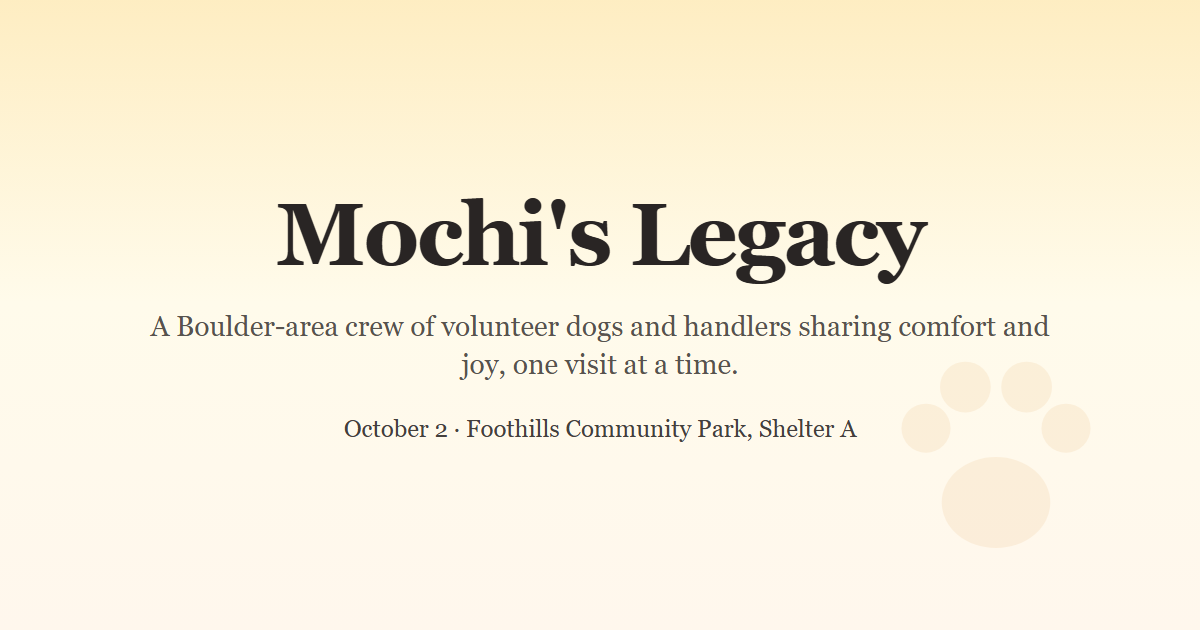
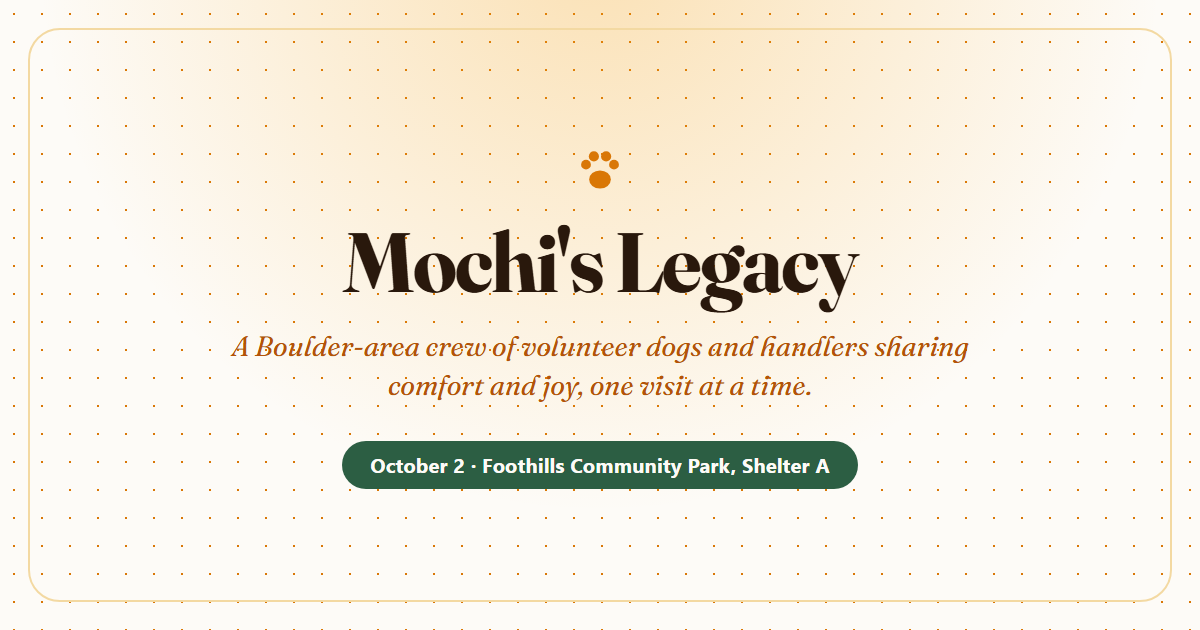
wip(og, p5): social card restyled to Direction A

diff --git a/scripts/og.html b/scripts/og.html
@@ -3,15 +3,18 @@
   Social card source. Playwright renders this to public/og.png at 1200×630.
 
   Generate:
-    npx playwright test e2e/og.spec.ts
-
-  p3: add this npm script (package.json is yours), then set og:image to /og.png:
-    "og": "playwright test e2e/og.spec.ts"
+    npm run og
 -->
 <html lang="en">
   <head>
     <meta charset="utf-8" />
     <title>Mochi's Legacy — og card</title>
+    <link rel="preconnect" href="https://fonts.googleapis.com" />
+    <link rel="preconnect" href="https://fonts.gstatic.com" crossorigin />
+    <link
+      href="https://fonts.googleapis.com/css2?family=Fraunces:ital,opsz,wght@0,9..144,700;1,9..144,400&display=swap"
+      rel="stylesheet"
+    />
     <style>
       * { box-sizing: border-box; margin: 0; }
       html, body { width: 1200px; height: 630px; overflow: hidden; }
@@ -21,48 +24,76 @@
         align-items: center;
         justify-content: center;
         padding: 72px;
-        color: #44403c;
-        font-family: Georgia, "Times New Roman", serif;
-        background: linear-gradient(180deg, rgba(251, 191, 36, 0.28), #fffbeb 48%, #fff7ed);
+        color: #29180C;
+        font-family: Fraunces, Georgia, "Times New Roman", serif;
+        background-color: #FDFBF7;
+        background-image:
+          radial-gradient(circle at 50% -8%, rgba(245, 158, 11, 0.28) 0%, rgba(253, 251, 247, 0) 62%),
+          radial-gradient(#D97706 0.75px, transparent 0.75px);
+        background-size: 100% 100%, 28px 28px;
+      }
+      body::before {
+        content: "";
+        position: absolute;
+        inset: 28px;
+        border: 2px solid #F3D9A2;
+        border-radius: 32px;
+        pointer-events: none;
+      }
+      .copy {
+        position: relative;
+        display: flex;
+        flex-direction: column;
+        align-items: center;
+        max-width: 920px;
+        text-align: center;
       }
       .paw {
-        position: absolute;
-        right: 64px;
-        bottom: 40px;
-        width: 280px;
-        height: 280px;
-        opacity: 0.08;
+        width: 56px;
+        height: 56px;
+        margin-bottom: 22px;
       }
-      .copy { position: relative; max-width: 920px; text-align: center; }
       h1 {
-        font-size: 88px;
-        font-weight: 600;
-        letter-spacing: -0.03em;
-        line-height: 1.05;
-        color: #292524;
+        font-size: 84px;
+        font-weight: 700;
+        letter-spacing: -0.025em;
+        line-height: 1.02;
+        color: #29180C;
       }
       .mission {
-        margin-top: 28px;
+        margin-top: 22px;
+        max-width: 820px;
         font-size: 28px;
-        line-height: 1.35;
-        color: #57534e;
+        font-style: italic;
+        font-weight: 400;
+        line-height: 1.4;
+        color: #B45309;
       }
       .kickoff {
-        margin-top: 32px;
-        font-size: 24px;
-        color: #44403c;
+        display: inline-flex;
+        align-items: center;
+        margin-top: 36px;
+        padding: 12px 28px;
+        border-radius: 999px;
+        background: #2C5E43;
+        color: #FDFBF7;
+        font-family: system-ui, "Segoe UI", sans-serif;
+        font-size: 20px;
+        font-weight: 700;
+        letter-spacing: 0.01em;
+        line-height: 1.2;
       }
     </style>
   </head>
   <body>
-    <svg class="paw" viewBox="0 0 32 32" aria-hidden="true">
-      <ellipse cx="16" cy="22" rx="6.2" ry="5.2" fill="#d97706"/>
-      <circle cx="8" cy="13.5" r="2.8" fill="#d97706"/>
-      <circle cx="12.5" cy="8.8" r="2.9" fill="#d97706"/>
-      <circle cx="19.5" cy="8.8" r="2.9" fill="#d97706"/>
-      <circle cx="24" cy="13.5" r="2.8" fill="#d97706"/>
-    </svg>
     <div class="copy">
+      <svg class="paw" viewBox="0 0 32 32" aria-hidden="true">
+        <ellipse cx="16" cy="22" rx="6.2" ry="5.2" fill="#D97706"/>
+        <circle cx="8" cy="13.5" r="2.8" fill="#D97706"/>
+        <circle cx="12.5" cy="8.8" r="2.9" fill="#D97706"/>
+        <circle cx="19.5" cy="8.8" r="2.9" fill="#D97706"/>
+        <circle cx="24" cy="13.5" r="2.8" fill="#D97706"/>
+      </svg>
       <h1>Mochi's Legacy</h1>
       <p class="mission">
         A Boulder-area crew of volunteer dogs and handlers sharing comfort
@@ -70,5 +101,8 @@
       </p>
       <p class="kickoff">October 2 · Foothills Community Park, Shelter A</p>
     </div>
+    <script type="module">
+      await document.fonts.ready;
+    </script>
   </body>
 </html>
